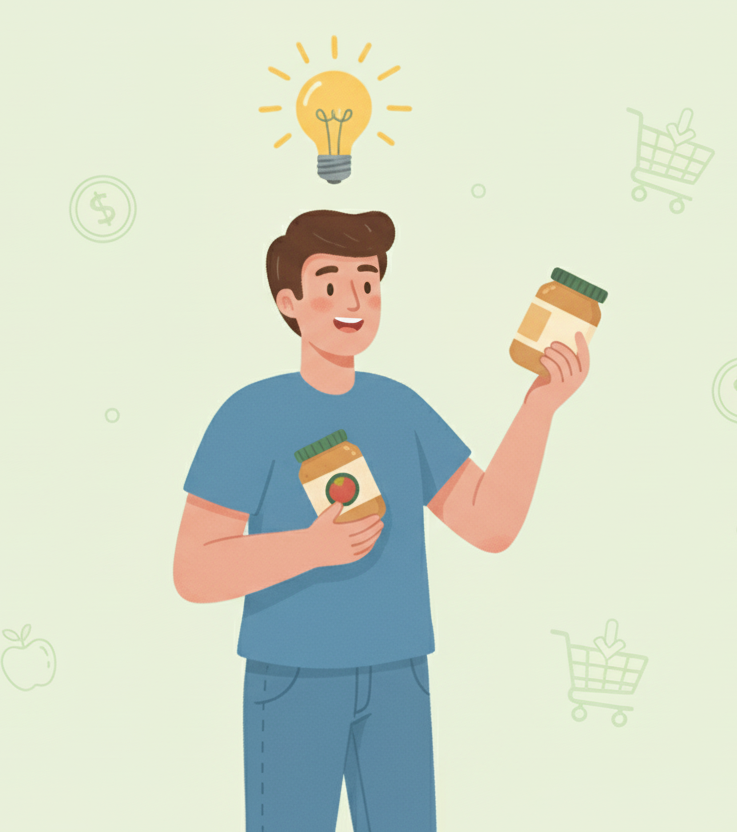
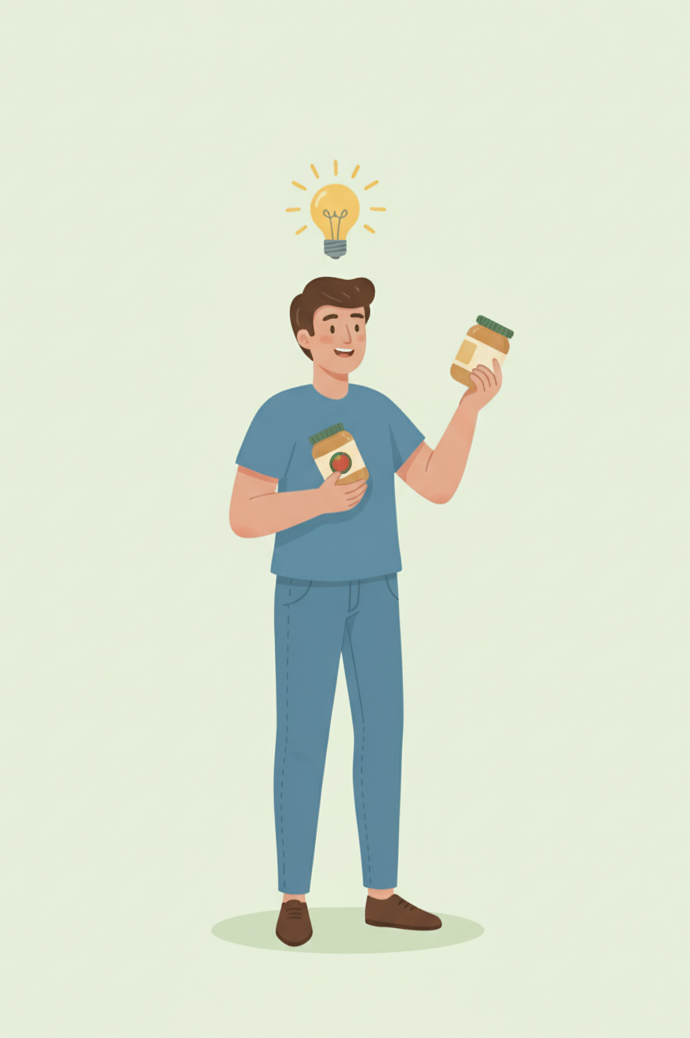
checkpoint

diff --git a/frontend/src/components/SubstitutesSection.jsx b/frontend/src/components/SubstitutesSection.jsx
@@ -22,7 +22,7 @@ const SubstitutesSection = ({ products, selectedOptions, onSelectOption, onQuant
           <p>No substitutes found for this product.</p>
         )}
         <div style={{ width: '18rem', margin: 'auto' }}>
-          <img src={subImage} alt="Substitution suggestion" style={{ width: '100%', borderRadius: '8px' }} />
+          <img src={subImage} alt="Substitution suggestion" style={{ width: '100%', borderRadius: '8px', maskImage: 'radial-gradient(ellipse at center, black 50%, transparent 75%)' }} />
         </div>
       </div>
     </div>
